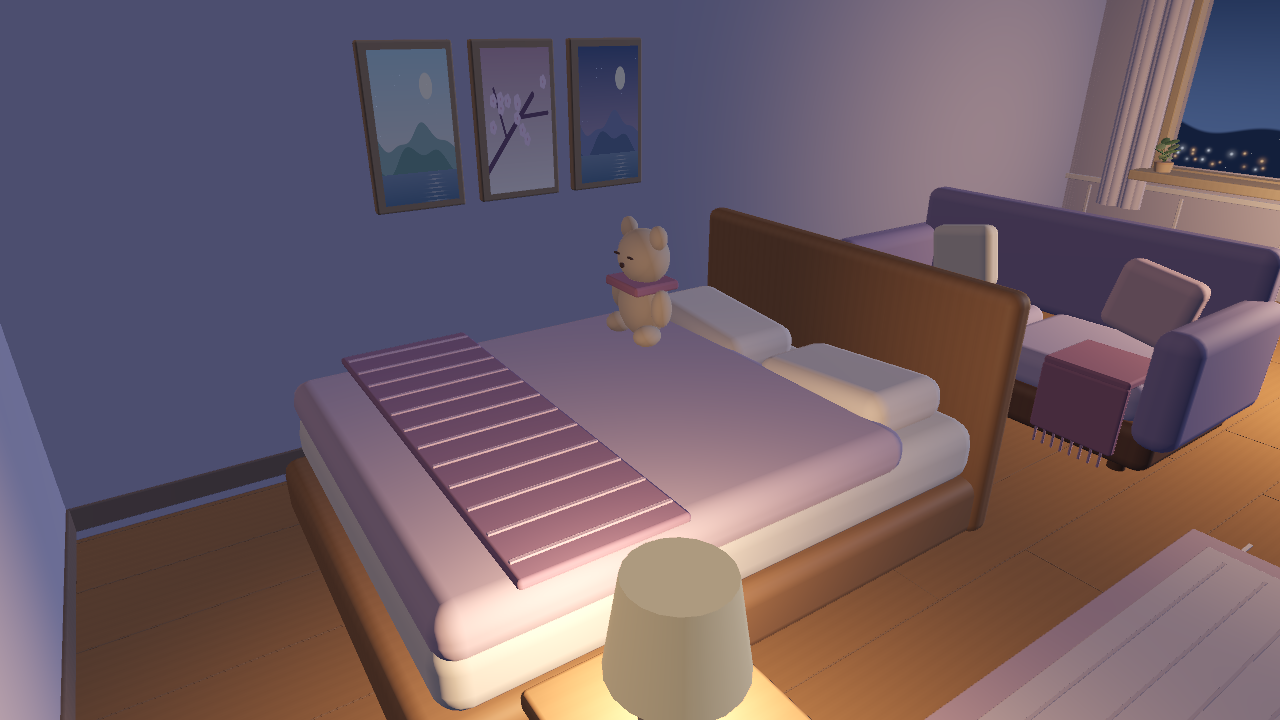
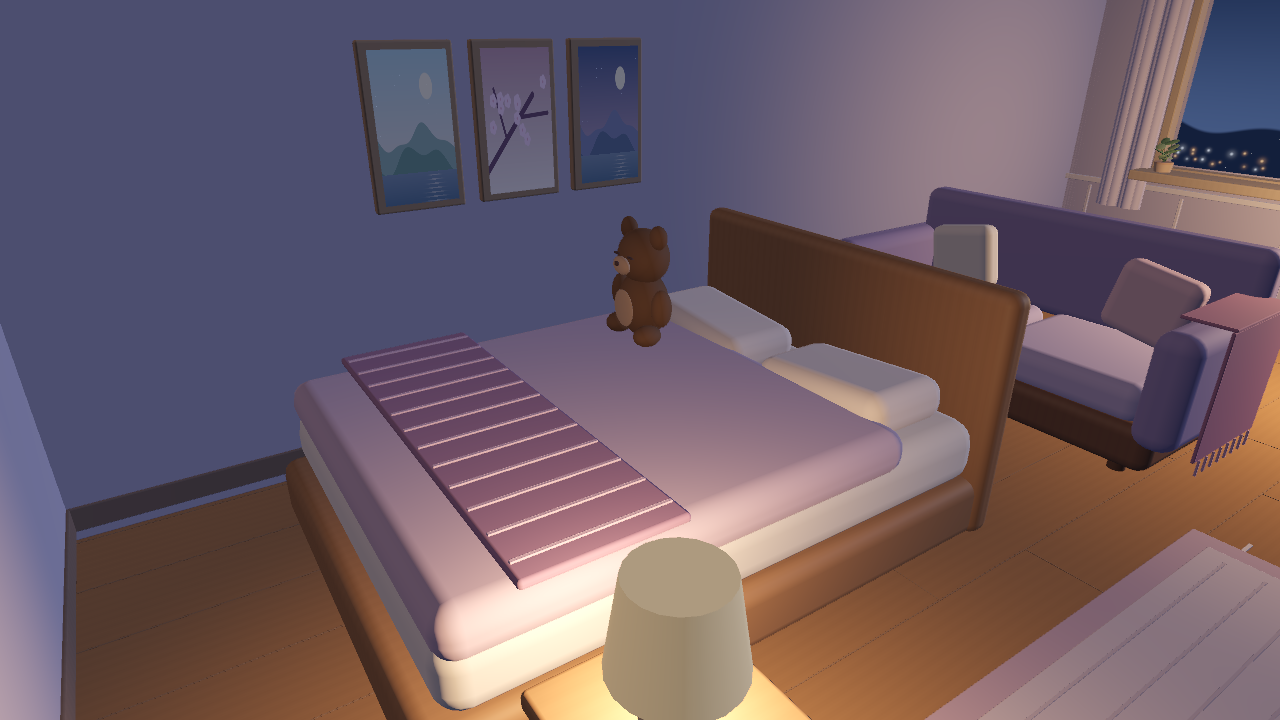
Address bedroom review: original teddy, bed edge seat and clear sofa throw

Changed region(s): [[0.9062, 0.3972, 1.0, 0.6417], [0.7812, 0.4583, 0.9062, 0.6417], [0.4688, 0.3056, 0.5312, 0.4889]]

diff --git a/godot_room/art/docs/REVIEW-FOLLOWUP.md b/godot_room/art/docs/REVIEW-FOLLOWUP.md
@@ -1,0 +1,72 @@
+# PR241 合并前修订
+
+仅art/，已普通merge作者最新5e10022；不改主线行为、后端、模型或私人配置。所有截图仅公开CC0千驮谷筱、离线静音，30fps上限，无新跑分。
+
+## 1. 原创棕色泰迪
+
+毛皮改棕色805b43，浅棕口鼻和腹部c5a187、深棕五官，删除上衣/围领。无黄色加红上衣组合，无角色标识；仍为本模块原创CC0程序几何。
+
+![棕色无衣泰迪](polish/after-bed.png)
+
+## 2. 床沿坐点metadata
+
+原14个交互点包含bed。沿用bed ID，只增加sit能力和Seat子Marker；总交互点仍14，新增Seat不是新的物件ID。其余13个交互点及bed原Approach严格保持原值。
+
+| 项目 | 原值 | 新值 |
+| --- | --- | --- |
+| 交互ID | bed | bed（不变） |
+| body / Interaction affordances | ["look"] | ["look","sit"] |
+| Interaction approach | NodePath("Approach") | 不变 |
+| approach_position（局部m） | (1.65,-0.38,-0.5) | 不变 |
+| Approach世界位置m | (-1.40,0,1.32) | 不变 |
+| Interaction seat | 无 | NodePath("Seat") |
+| seat_position（局部m） | 无 | (0.82,0.375,-0.20) |
+| seat_yaw（弧度） | 无 | π/2 ≈ 1.570796327，面向房间+X |
+| 新增子Marker路径 | 无 | WalkableRoom/bed/Interaction/Seat |
+| 新Seat metadata.id | 无 | bed_edge_seat |
+| 新Seat metadata.affordances | 无 | ["sit"] |
+| Seat世界位置m | 无 | (-2.23,0.755,1.62) |
+
+body/Interaction的位置、旋转、缩放、原碰撞和其他metadata不变。Seat是坐面接触点，并非角色根节点高度。已有room.seat_for按1/4宽度分配共享座位；截图复用Companion侧偏移，床宽1.85m，沿座位本地X偏0.4625m，最终接触点约(-2.23,0.755,1.1575)，没有改主线算法。
+
+原始interaction-contract.json **没有更新/覆盖**。validate只归一化获准的bed能力和Seat新增字段，再严格比较整个原快照。独立check_interaction_contract.gd包含18反例：14个ID逐一变更、bed/sofa的Approach和Seat各偏移1mm都必须失败，恢复后通过。
+
+verify仍为43个导航多边形、14个接近点连通、584个0.30m胶囊采样无碰撞。没有新增导航障碍。
+
+![Shino床沿坐姿](polish/review-after-bed-seat.png)
+
+集成边界：物理交互可读取新sit/Seat；后端app_room_spike.LABELS仍把bed列为look，本PR不改后端白名单。自然语言让AI坐床需主线另行接入/验收，不把这张图宣称为LLM已调用成功。
+
+## 3. 沙发右侧搭毯
+
+原搭毯在右坐垫前缘遮腿。改成扶手外侧：上折边中心(1.045,.602,-.08)、大小(.25,.018,.68)；外垂面中心(1.155,.24,-.08)、大小(.018,.70,.68)；流苏在外侧。沙发Marker、碰撞、座位和共享宽度不变。
+
+Shino位于room.seat_for的Companion右坐垫位置：原Seat沿本地X偏2.30/4，世界(-2.425,.50,-.92)。沿用Sitting_Idle和已有髋部对齐，不生成player/bridge或载入其他模型。
+
+| 旧搭毯参数复原控制图 | 修订后实际截图 |
+| --- | --- |
+| ![旧参数](polish/review-before-sofa-right.png) | ![修订后](polish/review-after-sofa-right.png) |
+
+控制图只在隔离验收场景复原e3013b0的搭毯尺寸/位置，其余条件相同，**不是旧完整房间版本截图**。同机位能看到旧参数遮腿、修订后双腿双脚完整。侧面复核：
+
+![侧面](polish/review-after-sofa-right-angle.png)
+
+沿当前姿势的左右LowerLeg→Foot各采33点，计算到可见搭毯世界AABB的距离减6cm包络。旧参数最小裕量-0.06m，修订后+0.381m；after非正或非有限时验收退出失败。此检查仅验证这套坐姿小腿区域，配合两个角度实际截图，不声称覆盖所有角色/动作。
+
+## 验证命令和结果
+
+```text
+godot --headless --max-fps 30 --path godot_room --script res://art/tools/verify.gd
+godot --headless --max-fps 30 --path godot_room --script res://art/tools/check_interaction_contract.gd
+godot --path godot_room --position -16000,-16000 --max-fps 30 --script res://art/tools/capture_review.gd -- before
+godot --path godot_room --position -16000,-16000 --max-fps 30 --script res://art/tools/capture_review.gd -- after
+```
+
+Godot4.6.3的verify、独立contract、18反例、实际坐姿间距检查均通过。完整scripts/test-local.ps1通过：1118 Python/3跳过、87 Node文件、202 Python/273 JS语法检查；最终CI以PR最新head Checks为准。7张after已刷新，新加4张审核图；原始before/诊断图不动。不提交模型、导出包、录像、日志。本次没有重跑不限帧测试，初版性能表仅为初版polish数据。
+
+## 审核图SHA256
+
[4 lines of base64/hex data omitted]

diff --git a/godot_room/art/docs/HANDOFF.md b/godot_room/art/docs/HANDOFF.md
@@ -26,3 +26,7 @@
 当前分支friend/godot-room-art-polish，从9368749新建，仅art/。原始Marker已冻结，三预设前后与小物图已保存。地板已证实为冷补光宽高光问题，不改光源/主线行为。43导航多边形、14交互点、584采样仍通过。详见[POLISH](POLISH.md)。用户反馈不限帧测试卡顿，已停止该方式，后续图形检查默认30fps，不再重复不限帧跑分。完整test-local已通过（1113 Python/3跳过、86 Node、202 Python/271 JS语法），公开JSON/py_compile通过；最终verify及主线导航/共享目标回归通过。已推送[Draft PR #241](https://github.com/MaQinglin-665/AI-chat/pull/241)，最新CI见该PR Checks；禁止自行合并。
 
 最新收尾：已普通merge作者ac5b967，无冲突，PR相对最新base仍只有art/。全量本地检查再次通过；最终美术verify通过。截图/性能仍是同一原始art基线9368749的有效对照（作者两笔提交未改art）。新版整房间另加载玩家模型，本次未启动；旧整房间回归证据明确标为9368749，最新模型组合由作者验收。
+
+## PR241合并前修订（当前）
+
+已普通merge作者5e10022，只改art/。棕色无衣泰迪；仅bed新增look/sit和Seat（bed_edge_seat），其Approach及其余13个交互点严格不变。搭毯移扶手外侧。原fixture未覆盖；verify43多边形/14路线/584采样、独立contract和18反例通过；Shino右坐垫搭毯-小腿包络裕量0.381m。4张审核图、7张after更新，30fps静音无私模。完整test-local通过（1118 Python/3跳过、87 Node；语法/secret/mapping），最终CI见PR最新head，未重跑不限帧。后端bed sit白名单留主线接入。完整metadata和限制见REVIEW-FOLLOWUP.md。保持Draft，不自行合并。

diff --git a/godot_room/art/SOURCES.md b/godot_room/art/SOURCES.md
@@ -40,3 +40,5 @@
 | 城市圆形光点与柔和光晕 | [window.gdshader](https://github.com/MaQinglin-665/AI-chat/blob/friend/godot-room-art-polish/godot_room/art/window.gdshader) | 同上 |
 | 哑光地板、两盆植物、睡熊、茶杯/本子/笔 | [bedroom.gd](https://github.com/MaQinglin-665/AI-chat/blob/friend/godot-room-art-polish/godot_room/art/bedroom.gd) / [wood.gdshader](https://github.com/MaQinglin-665/AI-chat/blob/friend/godot-room-art-polish/godot_room/art/wood.gdshader) | 同上 |
 | 前后、诊断和小物截图 | [polish/](docs/polish/) | 本模块原创场景及既有CC0 Shino的实际引擎画面，无私人桌面 |
+
+PR241审核补充：玩偶改为棕色无上衣原创泰迪（无角色标志），仍为本模块原创CC0几何。Shino坐姿和旧搭毯参数复原控制图见docs/REVIEW-FOLLOWUP.md；无外部图片或模型。
